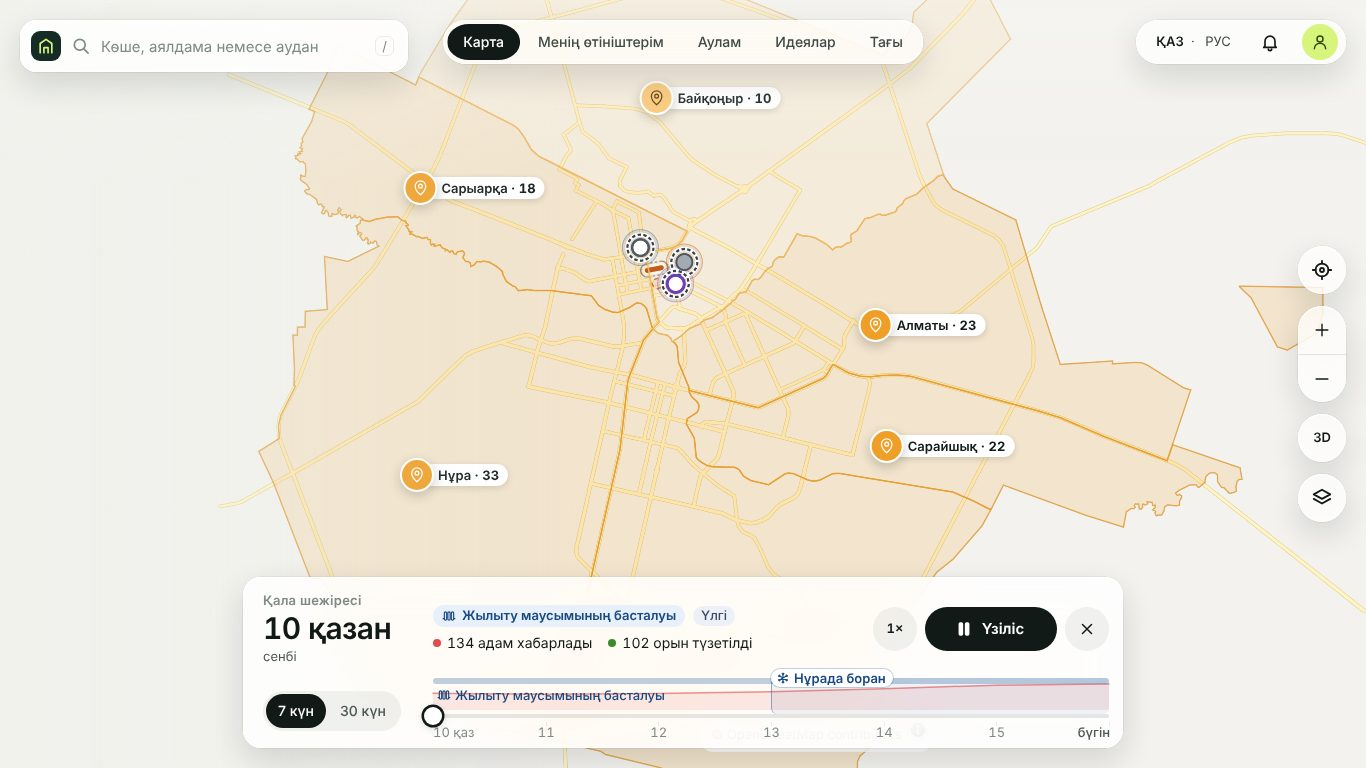
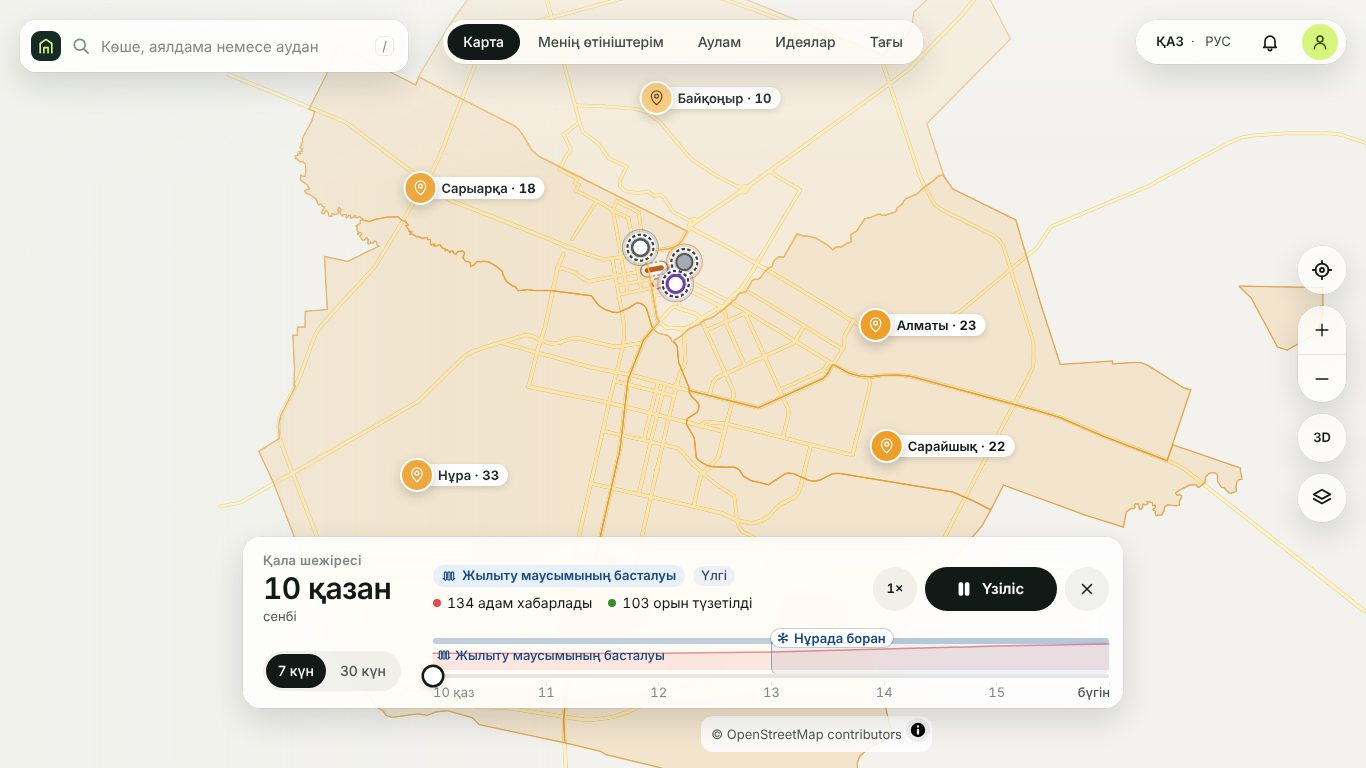
R11 r15 round 23: FINAL-5 c2276360 reviewed — 102 frames 0 problems, scenes 50 frames 0 JS errors, no screen left unreviewed; no blockers for R11 (R10, R15); chronicle frames re-shot on FINAL-5
Claude-Session: https://claude.ai/code/session_019sZWcqTtuPYinFhZWoemq9

Changed region(s): [[0.1845, 0.6875, 0.8302, 1.0]]

diff --git a/research/round-15-results/R11/REVIEW_R15.md b/research/round-15-results/R11/REVIEW_R15.md
@@ -360,6 +360,13 @@ R02 взял казахские правки мира (fa9ab80b) — в B0.19 «
 68 кадров, 0 проблем. По просьбе R16 вычитаны казахские названия трёх дел мира для R02 (одна опечатка: «Бораннан», не
 «Боранан»). Открытых просьб, блокирующих B1, у R11 нет.
 
+## Круг 23 — FINAL-5 (R01 c2276360), 16 октября, 14:23 по Астане
+
+Разбор R11 на **FINAL-5**: `r15_screens.cjs` — **102 кадра** 1366 / 1024 / 375 × ru / kk × житель / акимат, **проблем 0**,
+двух главных кнопок нет ни на одном экране; «смотреть глазами» — 8 кадров: строки «Обращений» (эталон A, многоточие у
+данных по задумке) и названия улиц календаря R12 на коротких строках (по желанию, не блокер). Сцены 7–9 — 50 кадров,
+ошибок JS 0. Ни одного экрана FINAL-5 без разбора R11 нет. R10 — «можно показывать: да», R15 — блокеров нет.
+
 ## Очередь следующих кругов
 
 Круг 6: R06 «Проекты и идеи» и колокольчик (кадров ещё нет), R09 v2.1 «Обращения», R13 и R12 — новые кадры; на сборке

diff --git a/research/handoffs/astana/R11/round15/STATUS.md b/research/handoffs/astana/R11/round15/STATUS.md
@@ -151,6 +151,9 @@ COMMON, IDEA или VISUAL_BRIEF — права поправка. Прочита
 - 12:23–12:24 — **круг 21** (по триггеру): AMENDMENTS — П1, П2 (новых нет); ключей нет. R01 B0.21; R06 сделал R06-3 (перенос по
   слогам в плитке фактов); R10: B0.20 «можно показывать: да». Ждём FINAL-5 (14:00) — разбор R11 и блокеры до 15:45.
 - 13:23–13:25 — **круг 22** (по триггеру): AMENDMENTS — П1, П2; ключей нет. R01 B0.22, R10: B0.21 «можно показывать: да». Ждём FINAL-5.
+- 14:23–14:32 — **круг 23, FINAL-5** (R01 c2276360, ui-kit/словарь R11 d20d823f): разбор R11 — 102 кадра, 0 проблем; сцены — 50 кадров,
+  ошибок 0; экранов без разбора R11 нет. R10 — «можно показывать: да», блокеров нет; R15 — блокеров нет. Хроника в книге экранов
+  переснята на FINAL-5.
 
 ## Соседи (find_branches.py, 15 окт 16:30)
 R01 claude/brave-fermi-nhzetj · R02 claude/affectionate-shannon-jm6ws5 · R03 claude/modest-mccarthy-lrl98u ·

diff --git a/research/round-15-results/R11/DESIGN_BOOK_R15.md b/research/round-15-results/R11/DESIGN_BOOK_R15.md
@@ -4,6 +4,8 @@
 Версия **v1 — 16 окт, по Астане**: все кадры сняты на **одной сборке R01 B0.20** (`claude/brave-fermi-nhzetj` @ 24e50493 —
 кандидат FINAL-5 b32945a4, ui-kit и словарь R11 d20d823f): одна шапка, меню по IA_ROUND15, демо-мир R02, вход operator.
 Кадры — `research/round-15-results/R11/design-book/` (подписи и пути оболочки — `design-book/scenes.json`).
+Сверка с **FINAL-5** (R01 c2276360, 16 окт 13:26): разбор 102 кадра — проблем 0; кадры сцен совпадают с B0.20 (отличия < 1 % —
+время и счётчики), кроме хроники — `s9-4-chronicle-1366-*` пересняты на FINAL-5 (R07 поднял панель хроники над подписью карты).
 Проверка этой же сборки: `r15_screens.cjs` — 102 кадра 1366 / 1024 / 375 × ru / kk, проблем 0; сцены — 50 кадров, ошибок JS 0.
 
 Правила отбора: VISUAL_BRIEF §4 (иерархия за 2 секунды, одна главная кнопка, казахский не обрезан, зелёный — только
